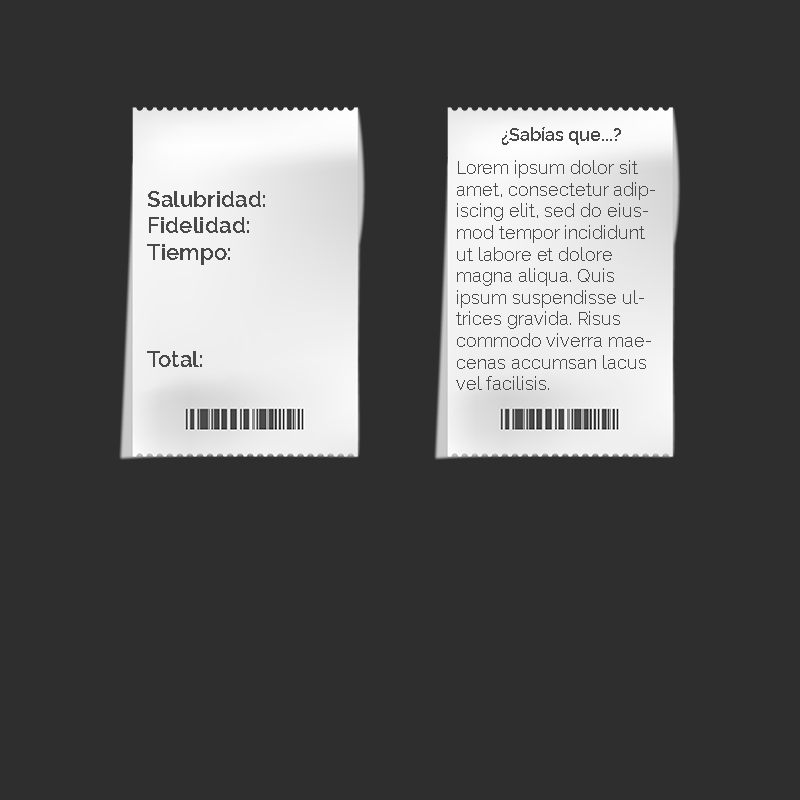
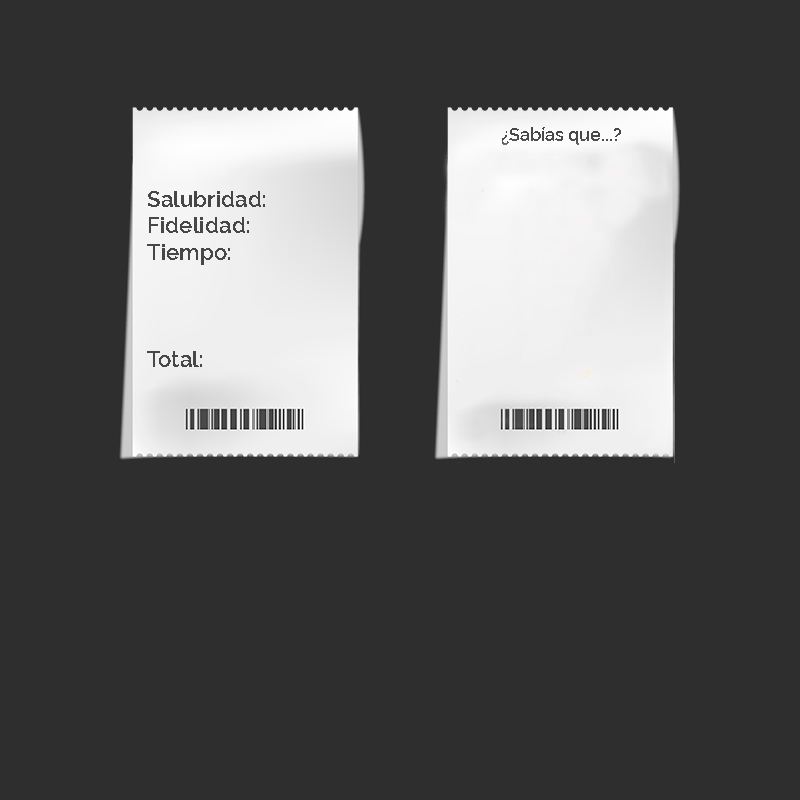
1.1.5 update

diff --git a/pages/1.1.5/src/scenes/gamescene.js b/pages/1.1.5/src/scenes/gamescene.js
@@ -106,6 +106,7 @@ var puntajeCfinal=100;//tiempo
 var puntajeTotalfinal = 0;
 
 var nivel;
+var leveltimer;
 
 
 var repeticionesA = 0;
@@ -170,17 +171,17 @@ class gamescene extends Phaser.Scene {
         //Selección de nivel
         F_selniv = true
         overlayNiveles = this.add.image(400,400,"overlay_levelselect").setDepth(10).setScrollFactor(0);
-        b_niveltexto[0] = this.add.text(190,265+50,"1",{ fontFamily: 'Pacifico', fontSize: 46, color: '#000000' }).setDepth(11).setScrollFactor(0);
+        b_niveltexto[0] = this.add.text(190,265+50,"1",{ fontFamily: 'Pacifico', fontSize: 46, color: '#ffffff' }).setDepth(11).setScrollFactor(0).setShadow(2, 2, "#000000", 2, true, true);;
         b_nivel[0] = this.add.image(200,300+50,"b_nivel").setInteractive().setDepth(10).setScrollFactor(0).setScale(0.25).setData({nivel:1});
-        b_niveltexto[1] = this.add.text(390,265+50,"2",{ fontFamily: 'Pacifico', fontSize: 46, color: '#000000' }).setDepth(11).setScrollFactor(0);
+        b_niveltexto[1] = this.add.text(390,265+50,"2",{ fontFamily: 'Pacifico', fontSize: 46, color: '#ffffff' }).setDepth(11).setScrollFactor(0).setShadow(2, 2, "#000000", 2, true, true);;
         b_nivel[1] = this.add.image(400,300+50,"b_nivel").setInteractive().setDepth(10).setScrollFactor(0).setScale(0.25).setData({nivel:2});
-        b_niveltexto[2] = this.add.text(590,265+50,"3",{ fontFamily: 'Pacifico', fontSize: 46, color: '#000000' }).setDepth(11).setScrollFactor(0);
+        b_niveltexto[2] = this.add.text(590,265+50,"3",{ fontFamily: 'Pacifico', fontSize: 46, color: '#ffffff' }).setDepth(11).setScrollFactor(0).setShadow(2, 2, "#000000", 2, true, true);;
         b_nivel[2] = this.add.image(600,300+50,"b_nivel").setInteractive().setDepth(10).setScrollFactor(0).setScale(0.25).setData({nivel:3});
-        b_niveltexto[3] = this.add.text(190,465+50,"4",{ fontFamily: 'Pacifico', fontSize: 46, color: '#000000' }).setDepth(11).setScrollFactor(0);
+        b_niveltexto[3] = this.add.text(190,465+50,"4",{ fontFamily: 'Pacifico', fontSize: 46, color: '#ffffff' }).setDepth(11).setScrollFactor(0).setShadow(2, 2, "#000000", 2, true, true);;
         b_nivel[3] = this.add.image(200,500+50,"b_nivel").setInteractive().setDepth(10).setScrollFactor(0).setScale(0.25).setData({nivel:4});
-        b_niveltexto[4] = this.add.text(390,465+50,"5",{ fontFamily: 'Pacifico', fontSize: 46, color: '#000000' }).setDepth(11).setScrollFactor(0);
+        b_niveltexto[4] = this.add.text(390,465+50,"5",{ fontFamily: 'Pacifico', fontSize: 46, color: '#ffffff' }).setDepth(11).setScrollFactor(0).setShadow(2, 2, "#000000", 2, true, true);;
         b_nivel[4] = this.add.image(400,500+50,"b_nivel").setInteractive().setDepth(10).setScrollFactor(0).setScale(0.25).setData({nivel:5});
-        b_niveltexto[5] = this.add.text(590,465+50,"6",{ fontFamily: 'Pacifico', fontSize: 46, color: '#000000' }).setDepth(11).setScrollFactor(0);
+        b_niveltexto[5] = this.add.text(590,465+50,"6",{ fontFamily: 'Pacifico', fontSize: 46, color: '#ffffff' }).setDepth(11).setScrollFactor(0).setShadow(2, 2, "#000000", 2, true, true);;
         b_nivel[5] = this.add.image(600,500+50,"b_nivel").setInteractive().setDepth(10).setScrollFactor(0).setScale(0.25).setData({nivel:6});
 
         for(var i=0;i<6;i++){
@@ -417,26 +418,28 @@ class gamescene extends Phaser.Scene {
 
         },this);
         b_pausa.on('pointerup',function(){
+            bgm_gameplay.volume = bgm_gameplay.volume*0.5;
             for(var i=0;i<comandera.length;i++){
                 comandera[i].timer.paused = true;
             }
             s_click.play();
             if(!F_selniv){
             overlayPausa.setDepth(99);
-            b_continuar.setDepth(99);
-            b_salir.setDepth(99);
+            b_continuar.setDepth(99).setInteractive();
+            b_salir.setDepth(99).setInteractive();
             b_pausa.setFrame(0);
             F_pausa = true;
             }
         },this);
         b_continuar.on('pointerup',function(){
+            bgm_gameplay.volume = bgm_gameplay.volume*2;
             for(var i=0;i<comandera.length;i++){
                 comandera[i].timer.paused = false;
             }
             s_click.play();
             overlayPausa.setDepth(-1);
-            b_continuar.setDepth(-1);
-            b_salir.setDepth(-1);
+            b_continuar.setDepth(-1).disableInteractive();
+            b_salir.setDepth(-1).disableInteractive();
             F_pausa = false;
         },this);
         b_salir.on('pointerup',function(){
@@ -708,7 +711,7 @@ class gamescene extends Phaser.Scene {
             for(var i=0;i<comandera.length;i++){
                 comandera[i].setDepth(-1).disableInteractive();
                 comandera[i].active=false;
-                comandera[i].timer = this.time.addEvent({delay:Phaser.Math.Between(15000,21000)*i, callback: function(){
+                comandera[i].timer = this.time.addEvent({delay:Phaser.Math.Between(10000,15000)*i, callback: function(){
                     s_pedido.play({volume:0.25});
                     this.setDepth(3).setInteractive();
                     this.active = true;
@@ -780,6 +783,7 @@ class gamescene extends Phaser.Scene {
         
         //nivel terminado
         if(ticketsleft==0){
+            
             puntajeAfinal = Phaser.Math.CeilTo(puntajeAfinal/ticketsjson.cantTickets)
             puntajeBfinal = Phaser.Math.CeilTo(puntajeBfinal/ticketsjson.cantTickets)
             puntajeCfinal = puntajeCfinal;
@@ -787,12 +791,14 @@ class gamescene extends Phaser.Scene {
             F_burgerDone=true;
             overlayPuntaje.setDepth(9);
             if(puntajeTotalfinal>70){
+                this.add.text(460,150,this.consejos("consejosWin"),{ font: '16px Raleway',color: '#4a4a4a',align:'justify'}).setDepth(10).setScrollFactor(0).setOrigin(0).setWordWrapWidth(210, false);
                 this.add.text(150, 150, '¡Genial!', { font: '24px Raleway',color: '#4a4a4a'}).setDepth(10).setScrollFactor(0);
                 s_win.play();
                 b_siguiente = this.add.image(510,570,'b_siguiente').setScrollFactor(0).setDepth(10).setInteractive();
                 F_nivelactualnum++; 
             }
-            else{
+            else{   
+                this.add.text(460,150,this.consejos("consejosLose"),{ font: '16px Raleway',color: '#4a4a4a',align:'justify'}).setDepth(10).setScrollFactor(0).setOrigin(0).setWordWrapWidth(210, false);
                 this.add.text(150, 150, 'Intenta de nuevo...', { font: '24px Raleway',color: '#4a4a4a'}).setDepth(10).setScrollFactor(0);
                 s_lose.play();
                 b_siguiente = this.add.image(510,570,'b_reintentar').setScrollFactor(0).setDepth(10).setInteractive();
@@ -1140,6 +1146,11 @@ class gamescene extends Phaser.Scene {
         F_nivelactual = "level"+F_nivelactualnum;
         F_generartickets = true;
             
+    }
+    consejos(condicion){
+        var consejosjson = mundo.cache.json.get(condicion);
+        var consejos = [consejosjson.con1,consejosjson.con2,consejosjson.con3,consejosjson.con4,consejosjson.con5];
+        return consejos[Phaser.Math.Between(0,4)]
     }
     
 }

diff --git a/pages/1.1.5/src/bootloader.js b/pages/1.1.5/src/bootloader.js
@@ -89,6 +89,8 @@ class Bootloader extends Phaser.Scene {
         this.load.json('level4','./assets/json/level4.json');
         this.load.json('level5','./assets/json/level5.json');
         this.load.json('level6','./assets/json/level6.json');
+        this.load.json('consejosWin','./assets/json/consejosWin.json');
+        this.load.json('consejosLose','./assets/json/consejosLose.json');
 
         this.load.spritesheet('Sp_freezer','./assets/sp_freezer.png', {frameWidth: 222, frameHeight: 327});
         this.load.spritesheet('Sp_burger','./assets/sp_burger.png', {frameWidth: 48, frameHeight: 25});
